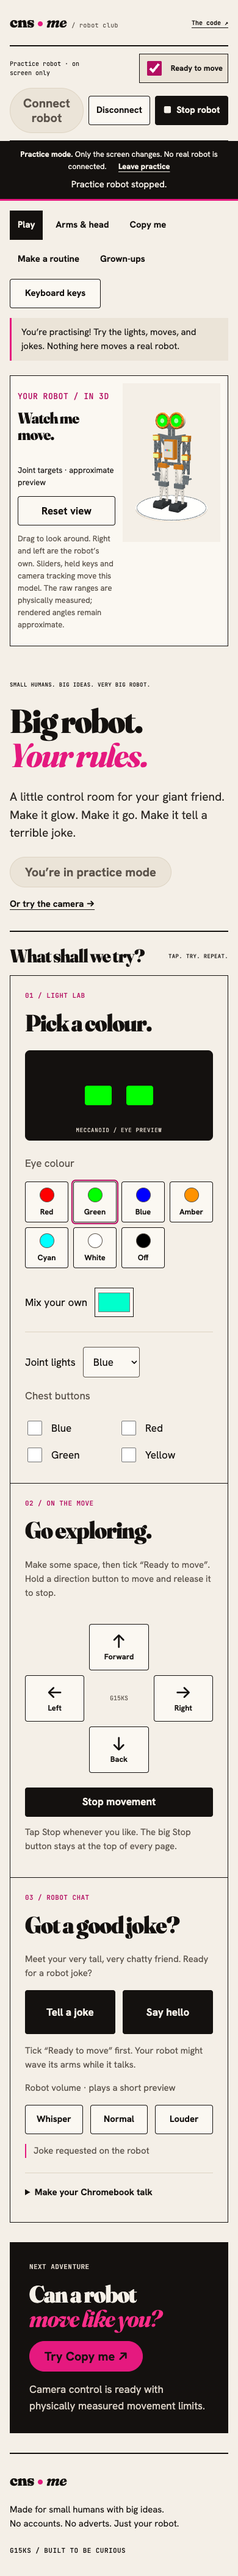
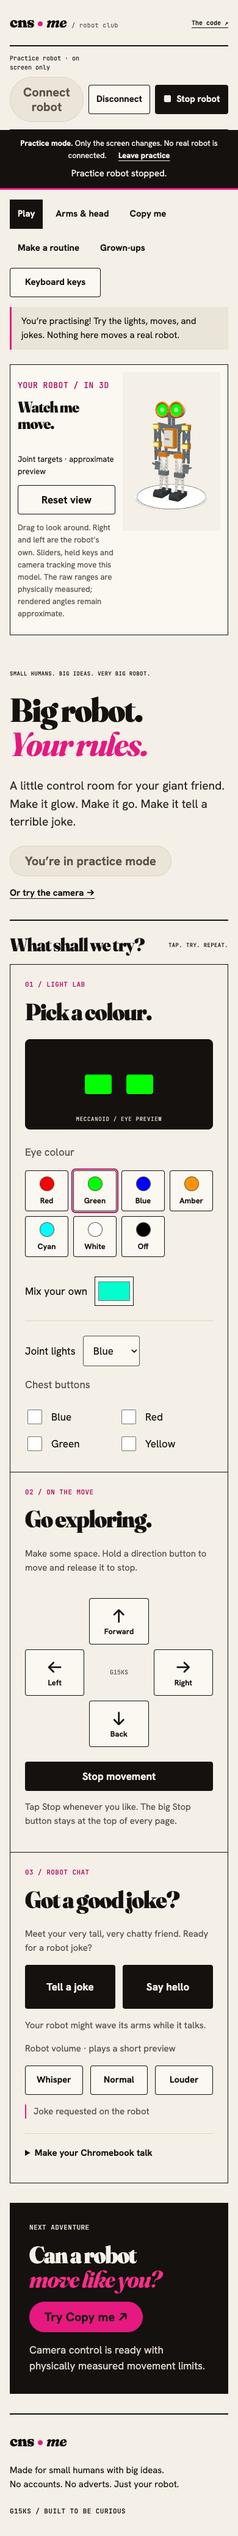
Remove movement readiness checkbox

diff --git a/style.css b/style.css
@@ -1,9 +1,9 @@
-:root{color-scheme:light;font-family:var(--font-body);color:var(--ink);background:var(--paper);font-size:17px;line-height:var(--lh-body)}*{box-sizing:border-box}body{margin:0}button,input,select,textarea{font:inherit}a{color:inherit;text-underline-offset:4px}p{max-width:var(--maxw-prose)}button,a,input,select,summary{touch-action:manipulation}button,.button{display:inline-flex;justify-content:center;align-items:center;gap:var(--s-2);min-height:48px;padding:var(--s-3) var(--s-5);border:1px solid var(--ink);border-radius:var(--r-2);background:var(--bone);color:var(--ink);font-weight:var(--w-bold);line-height:var(--lh-snug);cursor:pointer;text-decoration:none;transition:background var(--dur-fast),transform var(--dur-fast)}button:hover:enabled,.button:hover{background:var(--paper-2)}button:active:enabled{transform:translateY(2px)}button:disabled{color:var(--ink-3);background:var(--paper-2);border-color:var(--paper-3);cursor:not-allowed}button.primary,.button.primary{border-radius:var(--r-pill);background:var(--pink);color:var(--ink);border-color:var(--pink)}.primary:hover:enabled,.button.primary:hover{background:var(--pink-hot);box-shadow:var(--sh-pink)}:focus-visible{outline:3px solid var(--pink-deep);outline-offset:4px}.stop{background:var(--ink);color:var(--paper);border-color:var(--ink)}.stop:hover:enabled{background:var(--pink-deep);color:var(--bone)}.skip-link{position:absolute;top:-100px;left:16px;z-index:100;background:var(--ink);color:var(--paper);padding:16px}.skip-link:focus{top:0}.masthead,main,.control-dock{width:min(calc(100% - 80px),var(--maxw-page));margin:auto}.masthead{display:flex;align-items:center;justify-content:space-between;min-height:100px;gap:var(--s-5);border-bottom:2px solid var(--ink)}.brand{font:var(--w-black) 36px/1 var(--font-display);letter-spacing:var(--tr-tight);text-decoration:none;white-space:nowrap}.brand .brand-label{font:var(--w-med) var(--t-xs)/1 var(--font-mono);letter-spacing:0;margin-left:var(--s-4)}.edition,.source-link{font:var(--t-xs)/1.5 var(--font-mono)}.source-link{font-weight:var(--w-bold)}.control-dock{position:sticky;top:0;z-index:30;display:flex;align-items:center;justify-content:space-between;gap:var(--s-4);padding:var(--s-4) 0;background:var(--paper);border-bottom:1px solid var(--ink)}.connection{display:flex;gap:var(--s-2);align-items:center}.connection-state{display:flex;align-items:center;gap:var(--s-3);font:var(--t-xs)/1.5 var(--font-mono)}.status-dot{width:9px;height:9px;background:var(--ink-4);border-radius:50%;flex:none}body[data-connected=true] .status-dot{background:var(--pink)}#disconnect{font-size:var(--t-sm);padding:var(--s-3)}#globalStop{min-width:148px}.section-nav{display:flex;gap:var(--s-2);padding:var(--s-5) 0;flex-wrap:wrap}.section-nav a{display:flex;align-items:center;gap:var(--s-3);min-height:48px;padding:var(--s-3) var(--s-4);border:1px solid transparent;text-decoration:none;font-weight:var(--w-bold)}.section-nav a span{font:var(--t-xs)/1 var(--font-mono);color:var(--ink-3)}.section-nav a[aria-current=page]{border-color:var(--ink);background:var(--ink);color:var(--paper)}.section-nav a[aria-current=page] span{color:var(--pink-hot)}.section-nav a:hover{border-color:var(--ink)}#notice{font-size:var(--t-sm);padding:var(--s-3) var(--s-4);border-left:3px solid var(--pink);background:var(--paper-2);margin-bottom:var(--s-6);overflow-wrap:anywhere}.practice-banner{padding:var(--s-3) var(--s-5);text-align:center;background:var(--pink);color:var(--ink);font-size:var(--t-sm)}.practice-banner a{margin-left:var(--s-4);font-weight:var(--w-bold)}.hero{display:grid;grid-template-columns:1.5fr 1fr;gap:var(--s-8);padding:var(--s-5) 0 var(--s-8);align-items:center}h1,h2,h3{line-height:var(--lh-tight);letter-spacing:var(--tr-tight);margin:0 0 var(--s-5)}h1,h2{font-family:var(--font-display);font-weight:var(--w-black);font-variation-settings:"opsz" 144}h1{font-size:clamp(58px,6.7vw,96px);margin:var(--s-5) 0}h1 em,.next-adventure em{color:var(--pink);font-weight:700}h2{font-size:var(--t-2xl)}h3{font-size:var(--t-md);font-weight:var(--w-bold);letter-spacing:0}.eyebrow{font:var(--w-med) 11px/1.6 var(--font-mono);letter-spacing:var(--tr-loose);margin:0 0 var(--s-4)}.lede{font-size:var(--t-lg);line-height:var(--lh-body);max-width:46ch;color:var(--ink-2)}.hero-actions{display:flex;align-items:center;gap:var(--s-5);flex-wrap:wrap;margin-top:var(--s-6)}.hero-actions a{font-size:var(--t-sm);font-weight:var(--w-bold)}.mission-card{position:relative;padding:var(--s-6);border:1px solid var(--ink);background:var(--pink);min-height:340px;display:flex;flex-direction:column;align-items:flex-start;justify-content:center;overflow:hidden}.mission-card .eyebrow{z-index:1}.mission-card h2{font-size:var(--t-3xl);margin:var(--s-4) 0}.mission-card p{margin:0 0 var(--s-5);max-width:27ch}.mission-card a{font-weight:var(--w-bold);min-height:44px;display:inline-flex;align-items:center}.mission-card::after{content:"01";position:absolute;right:var(--s-5);top:var(--s-4);font:var(--w-black) 120px/.9 var(--font-display);opacity:.12;pointer-events:none}.mission-foot{display:block;width:100%;font:10px/1.6 var(--font-mono);border-top:1px solid var(--ink);padding-top:var(--s-4);margin-top:var(--s-5)}.section-heading{display:flex;align-items:baseline;justify-content:space-between;border-top:2px solid var(--ink);padding:var(--s-5) 0 var(--s-4);gap:var(--s-4)}.section-heading h2{margin:0}.play-grid{display:grid;grid-template-columns:repeat(3,minmax(0,1fr));border:1px solid var(--ink)}.panel{padding:var(--s-6);min-width:0;border:1px solid var(--ink);margin-bottom:var(--s-5);background:var(--bone)}.play-grid>.panel{border:0;border-right:1px solid var(--ink);margin:0;background:var(--paper)}.play-grid>.panel:last-child{border:0}.panel>.eyebrow{color:var(--pink-deep)}.panel h2{font-size:var(--t-2xl)}.small{font-size:var(--t-sm)}.muted{color:var(--ink-3)}.robot-face{position:relative;background:var(--ink);height:148px;display:flex;gap:var(--s-5);align-items:center;justify-content:center;margin:var(--s-5) 0;color:var(--paper);border-radius:var(--r-3)}.robot-face i{width:44px;height:32px;background:var(--eye,var(--pink));border-radius:var(--r-2);transition:background var(--dur-fast)}.robot-face span{position:absolute;bottom:var(--s-3);font:9px/1 var(--font-mono);letter-spacing:.08em;color:var(--fg-on-ink-2)}.swatches{display:grid;grid-template-columns:repeat(4,minmax(0,1fr));gap:var(--s-2);margin:var(--s-4) 0}.swatches button{padding:var(--s-2) 0;display:flex;flex-direction:column;min-height:67px;gap:var(--s-2);background:var(--bone);font-size:var(--t-xs)}.swatches button::before{content:"";display:block;width:22px;height:22px;border:1px solid var(--ink-3);border-radius:50%;background:var(--swatch)}.swatches button[aria-pressed=true]{outline:2px solid var(--pink-deep);outline-offset:1px}.swatches button:disabled{opacity:.55}fieldset{border:0;margin:0;padding:0;min-width:0}label{display:flex;align-items:center;gap:var(--s-3);margin:var(--s-4) 0}input[type=checkbox]{width:24px;height:24px;flex:none;accent-color:var(--pink-deep)}input[type=range]{width:100%;height:44px;min-width:0;accent-color:var(--pink-deep);cursor:pointer}input[type=color]{width:64px;height:48px;border:1px solid var(--ink);background:var(--bone);padding:3px;cursor:pointer}input:disabled{cursor:not-allowed;opacity:.6}input:not([type=range]):not([type=checkbox]):not([type=color]):not([type=file]),textarea,select{padding:var(--s-3);min-height:48px;border:1px solid var(--ink-3);background:var(--bone);border-radius:var(--r-2);min-width:0;max-width:100%;color:var(--ink)}select{cursor:pointer}textarea{width:100%;resize:vertical}label:has(textarea){display:block}.arm{background:var(--paper-2);padding:var(--s-4);border:1px solid var(--ink);font-weight:var(--w-bold)}.line{border-top:1px solid var(--paper-3);margin:var(--s-5) 0}.row,.toolbar{display:flex;align-items:center;gap:var(--s-3);flex-wrap:wrap}.between{justify-content:space-between}.toolbar{margin:var(--s-4) 0}.toolbar label{margin:0}.toolbar input,.toolbar select{max-width:100%}.dpad{display:grid;grid-template-columns:repeat(3,minmax(0,1fr));grid-template-rows:repeat(3,76px);gap:var(--s-2);margin:var(--s-5) 0}.dpad button{padding:var(--s-2);display:flex;flex-direction:column;gap:2px}.dpad b{font:30px/1 var(--font-body)}.dpad span{font-size:var(--t-xs)}.dpad button:first-child{grid-column:2}.dpad button:nth-child(2){grid-row:2}.dpad button:nth-child(4){grid-column:3;grid-row:2}.dpad button:last-child{grid-column:2;grid-row:3}.dpad-center{grid-column:2;grid-row:2;display:grid;place-items:center;font:10px/1 var(--font-mono)!important;color:var(--ink-3)}#stop{width:100%}#chest{display:grid;grid-template-columns:1fr 1fr;gap:0}#chest label{min-height:44px;margin:0}#quickJoke,#quickIntro{flex:1;min-height:72px;background:var(--ink);color:var(--paper)}#quickJoke:disabled,#quickIntro:disabled{background:var(--paper-2);color:var(--ink-3)}#volumeQuiet,#volumeMedium,#volumeLoud{flex:1;font-size:var(--t-sm);padding:var(--s-3)}#audioState{border-left:2px solid var(--pink);padding-left:var(--s-3)}details{margin:var(--s-5) 0 0;border-top:1px solid var(--paper-3);padding-top:var(--s-2)}summary{min-height:48px;padding:var(--s-3) 0;cursor:pointer;font-size:var(--t-sm);font-weight:var(--w-bold)}.advanced{margin:0}.advanced label{flex-wrap:wrap}.next-adventure{background:var(--ink);color:var(--paper);padding:var(--s-7);margin:var(--s-7) 0;display:grid;grid-template-columns:1fr auto;align-items:center;gap:var(--s-4) var(--s-7)}.next-adventure .eyebrow,.next-adventure p{grid-column:1/-1;color:var(--fg-on-ink-2);margin:0}.next-adventure h2{font-size:var(--t-3xl);margin:0}.next-adventure em{color:var(--pink-hot)}.tbc{padding:var(--s-4);border-left:3px solid var(--pink-deep);background:var(--paper-2);font-size:var(--t-sm);max-width:none}.joint-grid{display:grid;grid-template-columns:1fr 1fr;gap:var(--s-4);margin-top:var(--s-5)}.joint-card{border:1px solid var(--paper-3);padding:var(--s-5);background:var(--paper)}.joint-card h3{margin:0}.joint-card output{margin-left:auto;font:var(--t-lg)/1 var(--font-mono);color:var(--pink-deep)}.joint-card .toolbar{margin:0}.joint-card button{min-width:64px}.joint-card label{margin-top:0}.table-scroll{overflow:auto}table{border-collapse:collapse;width:100%;font-size:var(--t-sm);margin:var(--s-4) 0}th,td{text-align:left;padding:var(--s-2);border-bottom:1px solid var(--paper-3)}td input[type=number]{width:75px}.file-button{border:1px solid var(--ink);padding:var(--s-3);display:inline-flex;flex-wrap:wrap;cursor:pointer;font-size:var(--t-sm);min-height:48px}.file-button input{max-width:190px;font-size:var(--t-xs)}.mirror-layout{display:grid;grid-template-columns:1.2fr 1fr;gap:var(--s-6)}.mirror-layout>*{min-width:0}.camera-stage{position:relative;aspect-ratio:4/3;background:var(--ink);overflow:hidden;border:1px solid var(--ink)}.camera-stage video,.camera-stage canvas{width:100%;height:100%;position:absolute;inset:0;object-fit:contain;transform:scaleX(-1)}#cameraState{position:absolute;bottom:var(--s-3);left:var(--s-3);right:var(--s-3);background:var(--paper);color:var(--ink);padding:var(--s-2);font-size:var(--t-xs)}.camera-placeholder{padding:var(--s-6);color:var(--paper)}.camera-placeholder span{font:10px/1.5 var(--font-mono);color:var(--fg-on-ink-2)}.camera-placeholder strong{display:block;font:var(--w-black) clamp(30px,4vw,60px)/1.05 var(--font-display);margin:var(--s-6) 0}.camera-placeholder em{color:var(--pink-hot)}.camera-placeholder p{font-size:var(--t-sm)}.tracking-row{display:flex;gap:var(--s-3);align-items:center;font-size:var(--t-xs);margin:var(--s-2) 0}.tracking-row span{width:155px}.tracking-row meter{flex:1;min-width:30px}.saved-list{display:grid;gap:var(--s-3);margin-top:var(--s-4)}.saved-item{display:flex;align-items:center;gap:var(--s-2);flex-wrap:wrap}.saved-item span{flex:1;min-width:0;overflow-wrap:anywhere}.test-progress{display:flex;gap:var(--s-4);margin:var(--s-5) 0}.test-progress progress{flex:1;width:100%;min-width:0;accent-color:var(--pink-deep)}#buttonInputs span{padding:var(--s-2) var(--s-4);border:1px solid var(--ink)}#buttonInputs .pressed{background:var(--pink)}#testResults{font-size:var(--t-sm)}audio{width:100%;margin-top:var(--s-4)}pre{height:200px;overflow:auto;white-space:pre-wrap;overflow-wrap:anywhere;font:var(--t-xs)/1.8 var(--font-mono);color:var(--paper);background:var(--ink);padding:var(--s-5)}footer{border-top:2px solid var(--ink);padding:var(--s-6) 0;display:flex;justify-content:space-between;gap:var(--s-5);align-items:center}footer p{font-size:var(--t-sm);margin:0}footer .eyebrow{margin:0}[hidden]{display:none!important}section{scroll-margin-top:110px}
+:root{color-scheme:light;font-family:var(--font-body);color:var(--ink);background:var(--paper);font-size:17px;line-height:var(--lh-body)}*{box-sizing:border-box}body{margin:0}button,input,select,textarea{font:inherit}a{color:inherit;text-underline-offset:4px}p{max-width:var(--maxw-prose)}button,a,input,select,summary{touch-action:manipulation}button,.button{display:inline-flex;justify-content:center;align-items:center;gap:var(--s-2);min-height:48px;padding:var(--s-3) var(--s-5);border:1px solid var(--ink);border-radius:var(--r-2);background:var(--bone);color:var(--ink);font-weight:var(--w-bold);line-height:var(--lh-snug);cursor:pointer;text-decoration:none;transition:background var(--dur-fast),transform var(--dur-fast)}button:hover:enabled,.button:hover{background:var(--paper-2)}button:active:enabled{transform:translateY(2px)}button:disabled{color:var(--ink-3);background:var(--paper-2);border-color:var(--paper-3);cursor:not-allowed}button.primary,.button.primary{border-radius:var(--r-pill);background:var(--pink);color:var(--ink);border-color:var(--pink)}.primary:hover:enabled,.button.primary:hover{background:var(--pink-hot);box-shadow:var(--sh-pink)}:focus-visible{outline:3px solid var(--pink-deep);outline-offset:4px}.stop{background:var(--ink);color:var(--paper);border-color:var(--ink)}.stop:hover:enabled{background:var(--pink-deep);color:var(--bone)}.skip-link{position:absolute;top:-100px;left:16px;z-index:100;background:var(--ink);color:var(--paper);padding:16px}.skip-link:focus{top:0}.masthead,main,.control-dock{width:min(calc(100% - 80px),var(--maxw-page));margin:auto}.masthead{display:flex;align-items:center;justify-content:space-between;min-height:100px;gap:var(--s-5);border-bottom:2px solid var(--ink)}.brand{font:var(--w-black) 36px/1 var(--font-display);letter-spacing:var(--tr-tight);text-decoration:none;white-space:nowrap}.brand .brand-label{font:var(--w-med) var(--t-xs)/1 var(--font-mono);letter-spacing:0;margin-left:var(--s-4)}.edition,.source-link{font:var(--t-xs)/1.5 var(--font-mono)}.source-link{font-weight:var(--w-bold)}.control-dock{position:sticky;top:0;z-index:30;display:flex;align-items:center;justify-content:space-between;gap:var(--s-4);padding:var(--s-4) 0;background:var(--paper);border-bottom:1px solid var(--ink)}.connection{display:flex;gap:var(--s-2);align-items:center}.connection-state{display:flex;align-items:center;gap:var(--s-3);font:var(--t-xs)/1.5 var(--font-mono)}.status-dot{width:9px;height:9px;background:var(--ink-4);border-radius:50%;flex:none}body[data-connected=true] .status-dot{background:var(--pink)}#disconnect{font-size:var(--t-sm);padding:var(--s-3)}#globalStop{min-width:148px}.section-nav{display:flex;gap:var(--s-2);padding:var(--s-5) 0;flex-wrap:wrap}.section-nav a{display:flex;align-items:center;gap:var(--s-3);min-height:48px;padding:var(--s-3) var(--s-4);border:1px solid transparent;text-decoration:none;font-weight:var(--w-bold)}.section-nav a span{font:var(--t-xs)/1 var(--font-mono);color:var(--ink-3)}.section-nav a[aria-current=page]{border-color:var(--ink);background:var(--ink);color:var(--paper)}.section-nav a[aria-current=page] span{color:var(--pink-hot)}.section-nav a:hover{border-color:var(--ink)}#notice{font-size:var(--t-sm);padding:var(--s-3) var(--s-4);border-left:3px solid var(--pink);background:var(--paper-2);margin-bottom:var(--s-6);overflow-wrap:anywhere}.practice-banner{padding:var(--s-3) var(--s-5);text-align:center;background:var(--pink);color:var(--ink);font-size:var(--t-sm)}.practice-banner a{margin-left:var(--s-4);font-weight:var(--w-bold)}.hero{display:grid;grid-template-columns:1.5fr 1fr;gap:var(--s-8);padding:var(--s-5) 0 var(--s-8);align-items:center}h1,h2,h3{line-height:var(--lh-tight);letter-spacing:var(--tr-tight);margin:0 0 var(--s-5)}h1,h2{font-family:var(--font-display);font-weight:var(--w-black);font-variation-settings:"opsz" 144}h1{font-size:clamp(58px,6.7vw,96px);margin:var(--s-5) 0}h1 em,.next-adventure em{color:var(--pink);font-weight:700}h2{font-size:var(--t-2xl)}h3{font-size:var(--t-md);font-weight:var(--w-bold);letter-spacing:0}.eyebrow{font:var(--w-med) 11px/1.6 var(--font-mono);letter-spacing:var(--tr-loose);margin:0 0 var(--s-4)}.lede{font-size:var(--t-lg);line-height:var(--lh-body);max-width:46ch;color:var(--ink-2)}.hero-actions{display:flex;align-items:center;gap:var(--s-5);flex-wrap:wrap;margin-top:var(--s-6)}.hero-actions a{font-size:var(--t-sm);font-weight:var(--w-bold)}.mission-card{position:relative;padding:var(--s-6);border:1px solid var(--ink);background:var(--pink);min-height:340px;display:flex;flex-direction:column;align-items:flex-start;justify-content:center;overflow:hidden}.mission-card .eyebrow{z-index:1}.mission-card h2{font-size:var(--t-3xl);margin:var(--s-4) 0}.mission-card p{margin:0 0 var(--s-5);max-width:27ch}.mission-card a{font-weight:var(--w-bold);min-height:44px;display:inline-flex;align-items:center}.mission-card::after{content:"01";position:absolute;right:var(--s-5);top:var(--s-4);font:var(--w-black) 120px/.9 var(--font-display);opacity:.12;pointer-events:none}.mission-foot{display:block;width:100%;font:10px/1.6 var(--font-mono);border-top:1px solid var(--ink);padding-top:var(--s-4);margin-top:var(--s-5)}.section-heading{display:flex;align-items:baseline;justify-content:space-between;border-top:2px solid var(--ink);padding:var(--s-5) 0 var(--s-4);gap:var(--s-4)}.section-heading h2{margin:0}.play-grid{display:grid;grid-template-columns:repeat(3,minmax(0,1fr));border:1px solid var(--ink)}.panel{padding:var(--s-6);min-width:0;border:1px solid var(--ink);margin-bottom:var(--s-5);background:var(--bone)}.play-grid>.panel{border:0;border-right:1px solid var(--ink);margin:0;background:var(--paper)}.play-grid>.panel:last-child{border:0}.panel>.eyebrow{color:var(--pink-deep)}.panel h2{font-size:var(--t-2xl)}.small{font-size:var(--t-sm)}.muted{color:var(--ink-3)}.robot-face{position:relative;background:var(--ink);height:148px;display:flex;gap:var(--s-5);align-items:center;justify-content:center;margin:var(--s-5) 0;color:var(--paper);border-radius:var(--r-3)}.robot-face i{width:44px;height:32px;background:var(--eye,var(--pink));border-radius:var(--r-2);transition:background var(--dur-fast)}.robot-face span{position:absolute;bottom:var(--s-3);font:9px/1 var(--font-mono);letter-spacing:.08em;color:var(--fg-on-ink-2)}.swatches{display:grid;grid-template-columns:repeat(4,minmax(0,1fr));gap:var(--s-2);margin:var(--s-4) 0}.swatches button{padding:var(--s-2) 0;display:flex;flex-direction:column;min-height:67px;gap:var(--s-2);background:var(--bone);font-size:var(--t-xs)}.swatches button::before{content:"";display:block;width:22px;height:22px;border:1px solid var(--ink-3);border-radius:50%;background:var(--swatch)}.swatches button[aria-pressed=true]{outline:2px solid var(--pink-deep);outline-offset:1px}.swatches button:disabled{opacity:.55}fieldset{border:0;margin:0;padding:0;min-width:0}label{display:flex;align-items:center;gap:var(--s-3);margin:var(--s-4) 0}input[type=checkbox]{width:24px;height:24px;flex:none;accent-color:var(--pink-deep)}input[type=range]{width:100%;height:44px;min-width:0;accent-color:var(--pink-deep);cursor:pointer}input[type=color]{width:64px;height:48px;border:1px solid var(--ink);background:var(--bone);padding:3px;cursor:pointer}input:disabled{cursor:not-allowed;opacity:.6}input:not([type=range]):not([type=checkbox]):not([type=color]):not([type=file]),textarea,select{padding:var(--s-3);min-height:48px;border:1px solid var(--ink-3);background:var(--bone);border-radius:var(--r-2);min-width:0;max-width:100%;color:var(--ink)}select{cursor:pointer}textarea{width:100%;resize:vertical}label:has(textarea){display:block}.line{border-top:1px solid var(--paper-3);margin:var(--s-5) 0}.row,.toolbar{display:flex;align-items:center;gap:var(--s-3);flex-wrap:wrap}.between{justify-content:space-between}.toolbar{margin:var(--s-4) 0}.toolbar label{margin:0}.toolbar input,.toolbar select{max-width:100%}.dpad{display:grid;grid-template-columns:repeat(3,minmax(0,1fr));grid-template-rows:repeat(3,76px);gap:var(--s-2);margin:var(--s-5) 0}.dpad button{padding:var(--s-2);display:flex;flex-direction:column;gap:2px}.dpad b{font:30px/1 var(--font-body)}.dpad span{font-size:var(--t-xs)}.dpad button:first-child{grid-column:2}.dpad button:nth-child(2){grid-row:2}.dpad button:nth-child(4){grid-column:3;grid-row:2}.dpad button:last-child{grid-column:2;grid-row:3}.dpad-center{grid-column:2;grid-row:2;display:grid;place-items:center;font:10px/1 var(--font-mono)!important;color:var(--ink-3)}#stop{width:100%}#chest{display:grid;grid-template-columns:1fr 1fr;gap:0}#chest label{min-height:44px;margin:0}#quickJoke,#quickIntro{flex:1;min-height:72px;background:var(--ink);color:var(--paper)}#quickJoke:disabled,#quickIntro:disabled{background:var(--paper-2);color:var(--ink-3)}#volumeQuiet,#volumeMedium,#volumeLoud{flex:1;font-size:var(--t-sm);padding:var(--s-3)}#audioState{border-left:2px solid var(--pink);padding-left:var(--s-3)}details{margin:var(--s-5) 0 0;border-top:1px solid var(--paper-3);padding-top:var(--s-2)}summary{min-height:48px;padding:var(--s-3) 0;cursor:pointer;font-size:var(--t-sm);font-weight:var(--w-bold)}.advanced{margin:0}.advanced label{flex-wrap:wrap}.next-adventure{background:var(--ink);color:var(--paper);padding:var(--s-7);margin:var(--s-7) 0;display:grid;grid-template-columns:1fr auto;align-items:center;gap:var(--s-4) var(--s-7)}.next-adventure .eyebrow,.next-adventure p{grid-column:1/-1;color:var(--fg-on-ink-2);margin:0}.next-adventure h2{font-size:var(--t-3xl);margin:0}.next-adventure em{color:var(--pink-hot)}.tbc{padding:var(--s-4);border-left:3px solid var(--pink-deep);background:var(--paper-2);font-size:var(--t-sm);max-width:none}.joint-grid{display:grid;grid-template-columns:1fr 1fr;gap:var(--s-4);margin-top:var(--s-5)}.joint-card{border:1px solid var(--paper-3);padding:var(--s-5);background:var(--paper)}.joint-card h3{margin:0}.joint-card output{margin-left:auto;font:var(--t-lg)/1 var(--font-mono);color:var(--pink-deep)}.joint-card .toolbar{margin:0}.joint-card button{min-width:64px}.joint-card label{margin-top:0}.table-scroll{overflow:auto}table{border-collapse:collapse;width:100%;font-size:var(--t-sm);margin:var(--s-4) 0}th,td{text-align:left;padding:var(--s-2);border-bottom:1px solid var(--paper-3)}td input[type=number]{width:75px}.file-button{border:1px solid var(--ink);padding:var(--s-3);display:inline-flex;flex-wrap:wrap;cursor:pointer;font-size:var(--t-sm);min-height:48px}.file-button input{max-width:190px;font-size:var(--t-xs)}.mirror-layout{display:grid;grid-template-columns:1.2fr 1fr;gap:var(--s-6)}.mirror-layout>*{min-width:0}.camera-stage{position:relative;aspect-ratio:4/3;background:var(--ink);overflow:hidden;border:1px solid var(--ink)}.camera-stage video,.camera-stage canvas{width:100%;height:100%;position:absolute;inset:0;object-fit:contain;transform:scaleX(-1)}#cameraState{position:absolute;bottom:var(--s-3);left:var(--s-3);right:var(--s-3);background:var(--paper);color:var(--ink);padding:var(--s-2);font-size:var(--t-xs)}.camera-placeholder{padding:var(--s-6);color:var(--paper)}.camera-placeholder span{font:10px/1.5 var(--font-mono);color:var(--fg-on-ink-2)}.camera-placeholder strong{display:block;font:var(--w-black) clamp(30px,4vw,60px)/1.05 var(--font-display);margin:var(--s-6) 0}.camera-placeholder em{color:var(--pink-hot)}.camera-placeholder p{font-size:var(--t-sm)}.tracking-row{display:flex;gap:var(--s-3);align-items:center;font-size:var(--t-xs);margin:var(--s-2) 0}.tracking-row span{width:155px}.tracking-row meter{flex:1;min-width:30px}.saved-list{display:grid;gap:var(--s-3);margin-top:var(--s-4)}.saved-item{display:flex;align-items:center;gap:var(--s-2);flex-wrap:wrap}.saved-item span{flex:1;min-width:0;overflow-wrap:anywhere}.test-progress{display:flex;gap:var(--s-4);margin:var(--s-5) 0}.test-progress progress{flex:1;width:100%;min-width:0;accent-color:var(--pink-deep)}#buttonInputs span{padding:var(--s-2) var(--s-4);border:1px solid var(--ink)}#buttonInputs .pressed{background:var(--pink)}#testResults{font-size:var(--t-sm)}audio{width:100%;margin-top:var(--s-4)}pre{height:200px;overflow:auto;white-space:pre-wrap;overflow-wrap:anywhere;font:var(--t-xs)/1.8 var(--font-mono);color:var(--paper);background:var(--ink);padding:var(--s-5)}footer{border-top:2px solid var(--ink);padding:var(--s-6) 0;display:flex;justify-content:space-between;gap:var(--s-5);align-items:center}footer p{font-size:var(--t-sm);margin:0}footer .eyebrow{margin:0}[hidden]{display:none!important}section{scroll-margin-top:110px}
 @media(min-width:1600px){.hero{padding-top:var(--s-7)}}
 @media(max-width:1100px){.masthead,main,.control-dock{width:calc(100% - 48px)}.hero{gap:var(--s-6)}.play-grid{grid-template-columns:1fr 1fr}.play-grid>#soundsPanel{grid-column:1/-1;border-top:1px solid var(--ink)}.play-grid>#drivePanel{border-right:0}.edition{display:none}.mission-card{padding:var(--s-5)}.mission-card h2{font-size:var(--t-2xl)}}
 @media(max-width:700px){.masthead,main,.control-dock{width:calc(100% - 32px)}.masthead{min-height:76px}.brand{font-size:30px}.brand .brand-label{font-size:10px;margin-left:var(--s-2)}.source-link{font-size:10px}.control-dock{gap:var(--s-2);flex-wrap:wrap;padding:var(--s-3) 0}.connection-state{font-size:10px}.connection{width:100%;justify-content:space-between}.connection button{font-size:var(--t-sm);padding:var(--s-3)}#globalStop{min-width:120px;margin-left:auto}.section-nav{gap:var(--s-2);padding:var(--s-4) 0}.section-nav a{padding:var(--s-2) var(--s-3);font-size:var(--t-sm);gap:var(--s-2)}.section-nav a span{display:none}#notice{margin-bottom:var(--s-5)}.hero{grid-template-columns:1fr;padding:var(--s-4) 0 var(--s-6);gap:var(--s-6)}h1{font-size:64px}.hero .eyebrow{font-size:9px}.lede{font-size:var(--t-md)}.hero-actions{gap:var(--s-4);margin-top:var(--s-5)}.mission-card{min-height:0}.mission-card h2{font-size:var(--t-2xl);margin:var(--s-2) 0 var(--s-4)}.mission-card::after{content:"01";font-size:110px}.section-heading{align-items:center}.section-heading h2{font-size:var(--t-xl)}.section-heading>.eyebrow{font-size:9px;margin:0}.play-grid,.joint-grid,.mirror-layout{grid-template-columns:1fr}.play-grid>.panel{border-right:0;border-bottom:1px solid var(--ink)}.play-grid>#soundsPanel{grid-column:auto;border-top:0}.panel{padding:var(--s-5)}.next-adventure{grid-template-columns:1fr;padding:var(--s-6);margin:var(--s-6) 0}.next-adventure h2{font-size:var(--t-2xl)}.next-adventure .button{justify-self:start}.joint-card{padding:var(--s-4)}.panel label:has(select){flex-wrap:wrap}.panel label:has(input[type=text]){flex-wrap:wrap}footer{flex-wrap:wrap}footer .eyebrow{width:100%}.camera-placeholder{padding:var(--s-5)}.camera-placeholder strong{margin:var(--s-4) 0}.practice-banner{font-size:var(--t-xs)}}
 @media(prefers-reduced-motion:reduce){*,*::before,*::after{animation:none!important;transition:none!important;scroll-behavior:auto!important}}
-.sr-only{position:absolute;width:1px;height:1px;padding:0;margin:-1px;overflow:hidden;clip:rect(0,0,0,0);white-space:nowrap;border:0}.control-dock>.arm{margin:0;padding:var(--s-2) var(--s-3);font-size:var(--t-sm);min-height:48px}.control-dock{flex-wrap:wrap}@media(max-width:700px){.control-dock>.arm{font-size:var(--t-xs);min-height:44px;padding:var(--s-2)}.control-dock .status-dot{display:none}.control-dock .connection-state{max-width:43%}}
+.sr-only{position:absolute;width:1px;height:1px;padding:0;margin:-1px;overflow:hidden;clip:rect(0,0,0,0);white-space:nowrap;border:0}.control-dock{flex-wrap:wrap}@media(max-width:700px){.control-dock .status-dot{display:none}.control-dock .connection-state{max-width:43%}}
 
 #practiceAction{display:block;max-width:80ch;margin:var(--s-2) auto 0;font-size:var(--t-sm)}
 /* Small text needs more contrast than the core pink provides against warm ink. */

diff --git a/src/studio.js b/src/studio.js
@@ -52,6 +52,7 @@ export function setupStudio({robot,log,run,refresh,preview}) {
   }
   function action(id,fn){$(id).onclick=()=>run(async()=>{await fn();state();});}
   function assertFree() {if(capturing||captureStarting)throw new Error('Finish range capture before using other controls');if(diagnosticMode)throw new Error('Stop the system test before using other controls');}
+  async function ensureMotion(){if(!robot.armed)await robot.arm(true);}
   function assertPose(){if(!motion.current)throw new Error('Read the current robot pose first');}
   function renderPose() {
     if(!(tracker.running&&location.hash==='#copy')||performance.now()<manualOverrideUntil)preview?.setPose(motion.active?motion.target:motion.current,calibration);
@@ -76,8 +77,8 @@ export function setupStudio({robot,log,run,refresh,preview}) {
     calibration=next;store('meccanoid.calibration',calibration);renderPose();
     $('calibrationStatus').textContent=`Saved · ${calibration.filter(c=>c.enabled).length} verified joints enabled`;
   }
-  function nudgeJoint(index,direction) {
-    assertFree();manualOverrideUntil=performance.now()+180;stopReplay();assertPose();
+  async function nudgeJoint(index,direction) {
+    assertFree();manualOverrideUntil=performance.now()+180;stopReplay();assertPose();await ensureMotion();
     const c=calibration[index],base=motion.active?motion.target:motion.current;
     motion.setJointTarget(c.slot,clamp(base[c.slot]+direction*4,c.min,c.max),calibration);
   }
@@ -98,7 +99,7 @@ export function setupStudio({robot,log,run,refresh,preview}) {
     const output=document.createElement('output');output.textContent='—';
     const label=document.createElement('label');label.append(heading,output);
     const slider=document.createElement('input');slider.type='range';slider.min=88;slider.max=168;slider.value=128;slider.setAttribute('aria-label',joint.label);
-    slider.oninput=()=>run(()=>{assertFree();manualOverrideUntil=performance.now()+220;stopReplay();assertPose();motion.setJointTarget(calibration[i].slot,Number(slider.value),calibration);});
+    slider.oninput=()=>run(async()=>{assertFree();manualOverrideUntil=performance.now()+220;stopReplay();assertPose();await ensureMotion();motion.setJointTarget(calibration[i].slot,Number(slider.value),calibration);});
     const toolbar=document.createElement('div');toolbar.className='toolbar';
     const buttons=[];
     for(const direction of [-1,1]){
@@ -120,8 +121,8 @@ export function setupStudio({robot,log,run,refresh,preview}) {
     $('savedPoses').replaceChildren();
     saved.forEach((item,index)=>{
       const row=document.createElement('div');row.className='saved-item';const name=document.createElement('span');name.textContent=item.name;
-      const play=document.createElement('button');play.textContent='Recall';play.disabled=!robot.armed||!motion.current||diagnosticMode;
-      play.onclick=()=>run(()=>{assertFree();cancelProducers();motion.setTarget(item.pose,calibration);});
+      const play=document.createElement('button');play.textContent='Recall';play.disabled=!robot.connected||!motion.current||diagnosticMode;
+      play.onclick=()=>run(async()=>{assertFree();cancelProducers();await ensureMotion();motion.setTarget(item.pose,calibration);});
       const remove=document.createElement('button');remove.textContent='Delete';remove.onclick=()=>run(()=>{saved.splice(index,1);store('meccanoid.poses',saved);renderSaved();});
       row.append(name,play,remove);$('savedPoses').append(row);
     });
@@ -204,9 +205,9 @@ export function setupStudio({robot,log,run,refresh,preview}) {
   action('savePose',()=>{assertPose();if(saved.length>=50)throw new Error('Maximum 50 saved poses');saved.push({name:$('poseName').value.trim()||`Pose ${saved.length+1}`,pose:[...motion.current]});store('meccanoid.poses',saved);renderSaved();});
   action('recordSequence',()=>{assertFree();assertPose();stopReplay();recording=true;recordStart=performance.now();sequence={version:1,name:'Recorded movement',frames:[{time:0,pose:[...motion.current]}]};recordTimer=setTimeout(finishRecording,60000);$('sequenceState').textContent='Recording sent joint poses…';});
   action('finishSequence',finishRecording);
-  action('playSequence',()=>{
+  action('playSequence',async()=>{
     assertFree();assertPose();if(!sequence?.frames.length)throw new Error('Record or import a sequence first');
-    if(!robot.armed)throw new Error('Enable motion first');cancelProducers();finishRecording();
+    await ensureMotion();cancelProducers();finishRecording();
     const data=validateSequence(sequence);playing=true;const epoch=++playEpoch,start=performance.now();let index=0;
     const tick=()=>{
       if(!playing||epoch!==playEpoch)return;
@@ -264,7 +265,7 @@ export function setupStudio({robot,log,run,refresh,preview}) {
   action('refreshBank',async()=>{$('bankState').textContent='Reading names from the robot…';const entries=await robot.readPresetBank();presetBank=new Map(entries.map(e=>[e.id,e.name]));renderBank();});
   $('presetSelect').onchange=()=>$('presetLabel').value=labels[$('presetSelect').value]??'';
   $('presetLabel').onchange=()=>run(()=>{const id=$('presetSelect').value;if(!id)throw new Error('Select a preset');labels[id]=$('presetLabel').value.trim();store('meccanoid.presetLabels',labels);renderBank();});
-  async function playRobot(fn){assertFree();cancelProducers();finishRecording();motion.current=null;renderPose();if(robot.connected)await robot.stop();await fn();}
+  async function playRobot(fn){assertFree();cancelProducers();finishRecording();motion.current=null;renderPose();if(robot.connected){await robot.stop();await ensureMotion();}await fn();}
   for(const [id,level] of [['volumeQuiet',1],['volumeMedium',2],['volumeLoud',3]])action(id,async()=>{await playRobot(()=>robot.setVolume(level));$('audioState').textContent=`Volume ${level} sent · listen for its preview`;});
   let volumeTimer;
   $('volumeCustom').oninput=()=>{clearTimeout(volumeTimer);volumeTimer=setTimeout(()=>run(async()=>{if(!robot.connected||$('volumeCustom').disabled||!$('volumeCustom').value||!$('volumeCustom').checkValidity())return;const value=Number($('volumeCustom').value);await playRobot(()=>robot.setExperimentalVolume(value));$('audioState').textContent=`Experimental volume ${value} sent · effect needs listening confirmation`; }),200);};
@@ -286,7 +287,7 @@ export function setupStudio({robot,log,run,refresh,preview}) {
   diagnostics.addEventListener('progress',e=>{$('testEvidence').textContent=e.detail;renderTest();state();});
   action('runTest',async()=>{
     cancelProducers();finishRecording();diagnosticMode=true;motion.current=null;renderPose();state();
-    try{if(robot.connected)await robot.stop();await diagnostics.run(calibration,{visible:$('visibleTests').checked});}finally{state();}
+    try{if(robot.connected){await robot.stop();if(diagnostics.step?.motion)await ensureMotion();}await diagnostics.run(calibration,{visible:$('visibleTests').checked});}finally{state();}
   });
   action('abortTest',async()=>{diagnostics.abort();diagnosticMode=false;if(robot.connected)await robot.arm(false);state();});
   action('resetTests',()=>{diagnostics.reset();diagnosticMode=false;$('testEvidence').textContent='Ready';renderTest();});
@@ -297,9 +298,8 @@ export function setupStudio({robot,log,run,refresh,preview}) {
   window.addEventListener('pagehide',()=>{cameraEpoch++;tracker.stop();synth?.cancel();$('audioPlayer').pause();});
   function state() {
     const teaching=capturing||captureStarting;
-    const available=robot.connected&&robot.armed&&!diagnosticMode&&!teaching;
+    const available=robot.connected&&!diagnosticMode&&!teaching;
     $('startRangeCapture').disabled=!robot.connected||diagnosticMode||teaching;$('finishRangeCapture').disabled=!capturing;$('cancelRangeCapture').disabled=!teaching;
-    $('arm').disabled=!robot.connected||teaching;
     $('copyDrive').disabled=!available;
     $('servoColour').disabled=teaching;document.querySelectorAll('#chest input').forEach(input=>input.disabled=teaching);
     calRows.forEach(row=>Object.values(row).forEach(input=>input.disabled=teaching));
@@ -317,7 +317,7 @@ export function setupStudio({robot,log,run,refresh,preview}) {
     $('quickJoke').disabled=!available;$('quickIntro').disabled=!available;
     $('visibleTests').disabled=diagnostics.running;
     $('playLim').disabled=!available||!robot.status?.limCount;
-    $('runTest').disabled=teaching||diagnostics.running||!diagnostics.step||(!robot.connected&&diagnostics.step.kind!=='manual')||(diagnostics.step?.motion&&!robot.armed);
+    $('runTest').disabled=teaching||diagnostics.running||!diagnostics.step||(!robot.connected&&diagnostics.step.kind!=='manual');
     $('resetTests').disabled=diagnostics.running;
     document.querySelectorAll('[data-result]').forEach(b=>b.disabled=diagnostics.running||!diagnostics.step);
     if(diagnosticMode)$('motion').disabled=true;
@@ -325,10 +325,10 @@ export function setupStudio({robot,log,run,refresh,preview}) {
   }
   renderSaved();renderTest();renderBank();state();
   return {state,halt,
-    async keyboardDrive(direction,valid){assertFree();manualOverrideUntil=performance.now()+500;motion.cancel();if(valid())await robot.holdDirection(direction,700);},
-    async holdDrive(direction){assertFree();manualOverrideUntil=performance.now()+500;motion.cancel();await robot.holdDirection(direction,700);},
+    async keyboardDrive(direction,valid){assertFree();manualOverrideUntil=performance.now()+500;motion.cancel();await ensureMotion();if(valid())await robot.holdDirection(direction,700);},
+    async holdDrive(direction){assertFree();manualOverrideUntil=performance.now()+500;motion.cancel();await ensureMotion();await robot.holdDirection(direction,700);},
     async keyboardNudge(deltas,valid){
-      assertFree();manualOverrideUntil=performance.now()+180;stopReplay();if(!motion.current)await motion.sync();if(!valid())return;
+      assertFree();manualOverrideUntil=performance.now()+180;stopReplay();if(!motion.current)await motion.sync();await ensureMotion();if(!valid())return;
       const base=motion.active?motion.target:motion.current,pose=[...base];
       const config=calibration.map((c,i)=>{if(deltas[i])pose[c.slot]=clamp(base[c.slot]+deltas[i],c.min,c.max);return {...c,enabled:Boolean(deltas[i])};});
       motion.setTarget(pose,config);

diff --git a/app.js b/app.js
@@ -27,9 +27,7 @@ function state() {
   $('connect').disabled = connected||(!practice&&!navigator.bluetooth);
   $('disconnect').disabled = !connected;
   $('lights').disabled = !connected;
-  $('arm').disabled = !connected;
-  $('arm').checked = robot.armed;
-  $('motion').disabled = !connected || !robot.armed;
+  $('motion').disabled = !connected;
   $('globalStop').disabled=!connected;
   $('stop').disabled=!connected;
   studio?.state();
@@ -65,7 +63,6 @@ $('custom').oninput = () => run(async () => {
 });
 $('servoColour').onchange = () => run(() => robot.setServoLights(Array(8).fill(Number($('servoColour').value))));
 document.querySelectorAll('#chest input').forEach(input=>input.onchange = () => run(() => robot.setChest([...document.querySelectorAll('#chest input')].map(c => c.checked))));
-$('arm').onchange = () => run(() => robot.arm($('arm').checked));
 let heldDriveButton=null;
 function bindDriveHold(button) {
   let active=false,timer;
@@ -74,9 +71,9 @@ function bindDriveHold(button) {
     if(!active)return;active=false;heldDriveButton=null;clearTimeout(timer);button.classList.remove('held-key');
     run(()=>robot.stop());
   };
-  button.addEventListener('pointerdown',event=>{if(!robot.connected||!robot.armed||heldDriveButton)return;event.preventDefault();active=true;heldDriveButton=button;button.classList.add('held-key');button.setPointerCapture(event.pointerId);pulse();});
+  button.addEventListener('pointerdown',event=>{if(!robot.connected||heldDriveButton)return;event.preventDefault();active=true;heldDriveButton=button;button.classList.add('held-key');button.setPointerCapture(event.pointerId);pulse();});
   for(const event of ['pointerup','pointercancel','lostpointercapture'])button.addEventListener(event,finish);
-  button.addEventListener('keydown',event=>{if(event.key!=='Enter'||event.repeat||!robot.connected||!robot.armed||heldDriveButton)return;event.preventDefault();active=true;heldDriveButton=button;button.classList.add('held-key');pulse();});
+  button.addEventListener('keydown',event=>{if(event.key!=='Enter'||event.repeat||!robot.connected||heldDriveButton)return;event.preventDefault();active=true;heldDriveButton=button;button.classList.add('held-key');pulse();});
   button.addEventListener('keyup',event=>{if(event.key==='Enter'){event.preventDefault();finish();}});
   button.addEventListener('blur',finish);
   button.onclick=event=>event.preventDefault();
@@ -94,7 +91,7 @@ $('export').onclick = () => {
 studio = setupStudio({robot,log,run,refresh:state,preview});
 setupShell({robot,studio,run,practice});
 const keyboard=new KeyboardControls({
-  enabled:()=>robot.connected&&robot.armed,
+  enabled:()=>robot.connected,
   drive:(direction,valid)=>studio.keyboardDrive(direction,valid),
   nudge:(deltas,valid)=>studio.keyboardNudge(deltas,valid),
   release:()=>studio.releaseJoint(),

diff --git a/index.html b/index.html
@@ -33,8 +33,6 @@
 </span>
 <span id="status" role="status">Robot not connected</span>
 </div>
-<label class="arm">
-<input id="arm" type="checkbox" disabled> Ready to move</label>
 <div class="connection">
 <button id="connect" class="primary">Connect robot</button>
 <button id="disconnect" disabled>Disconnect</button>
@@ -62,7 +60,7 @@
 </nav>
 <section id="keyboardHelp" class="keyboard-guide" hidden>
 <h2>Take the keys.</h2>
-<p>Tick <strong>Ready to move</strong>, then hold a key. Let go to stop that movement. Arrow keys drive; let go of them before moving joints. <kbd>Esc</kbd> stops and disarms anywhere. <kbd>Space</kbd> stops when you’re not typing.</p>
+<p>Hold a key to move and let go to stop. Arrow keys drive; let go of them before moving joints. <kbd>Esc</kbd> stops everything anywhere. <kbd>Space</kbd> stops when you’re not typing.</p>
 <p>
 <kbd>↑</kbd> forward · <kbd>↓</kbd> back · <kbd>←</kbd> turn left · <kbd>→</kbd> turn right</p>
 <div id="keyboardJoints">
@@ -141,7 +139,7 @@
 <section class="panel" id="drivePanel">
 <p class="eyebrow">02 / ON THE MOVE</p>
 <h2>Go exploring.</h2>
-<p class="muted small">Make some space, then tick “Ready to move”. Hold a direction button to move and release it to stop.</p>
+<p class="muted small">Make some space. Hold a direction button to move and release it to stop.</p>
 <fieldset id="motion" disabled>
 <div class="dpad">
 <button data-drive="forward" data-key="ArrowUp" aria-keyshortcuts="ArrowUp" aria-label="Forward">
@@ -174,7 +172,7 @@
 <button id="quickJoke">Tell a joke</button>
 <button id="quickIntro">Say hello</button>
 </div>
-<p class="small muted">Tick “Ready to move” first. Your robot might wave its arms while it talks.</p>
+<p class="small muted">Your robot might wave its arms while it talks.</p>
 <p class="small muted">Robot volume · plays a short preview</p>
 <div class="toolbar">
 <button id="volumeQuiet">Whisper</button>
@@ -216,7 +214,7 @@
 <p class="eyebrow">03 / STRIKE A POSE</p>
 <div class="row between">
 <h2>A little robot yoga.</h2>
-<button id="halt" class="stop">Stop & disarm</button>
+<button id="halt" class="stop">Stop movement</button>
 </div>
 <p class="small muted">Read the pose, then drag a slider to move one joint. Right and left mean the robot’s own right and left. The keys on each button also move that joint; hold to keep moving.</p>
 <p class="tbc"><strong>Movement ranges measured.</strong> Controls use the 19 September physical calibration with a four-unit margin inside each observed endpoint.</p>

diff --git a/README.md b/README.md
@@ -23,7 +23,7 @@ An interactive **3D G15KS-style robot** sits beside the controls. Drag to orbit 
 
 In **Copy me**, connect the robot and press **Turn camera on**. That single action reads its pose, enables motion and starts controlling all eight joints. Hold a direction button there, or an arrow key, to drive while the camera stays on; release to stop. Without Bluetooth, the same camera movement drives the 3D robot only. There is no separate neutral, start or apply step. Losing tracking stops physical commands; stepping back into view resumes them.
 
-**Keyboard:** hold arrow keys to drive and release to stop. Joint +/− pairs, in order: right elbow **Q/A**, right lift **W/S**, right shoulder **E/D**, left shoulder **R/F**, left lift **U/J**, left elbow **I/K**, head turn **O/L**, head tilt **P/;**. Keys work during camera control: a held joint key overrides tracking, and release hands that joint back to the camera. The on-page guide shows every shortcut. **Esc** stops and disarms anywhere; **Space** does so outside text fields. Losing window focus disarms the robot.
+**Keyboard:** hold arrow keys to drive and release to stop. Joint +/− pairs, in order: right elbow **Q/A**, right lift **W/S**, right shoulder **E/D**, left shoulder **R/F**, left lift **U/J**, left elbow **I/K**, head turn **O/L**, head tilt **P/;**. Keys work during camera control: a held joint key overrides tracking, and release hands that joint back to the camera. The on-page guide shows every shortcut. **Esc** stops everything anywhere; **Space** does so outside text fields. Losing window focus stops motion. The next deliberate movement automatically enables the internal motion guard again.
 
 ## Five places to explore
 
